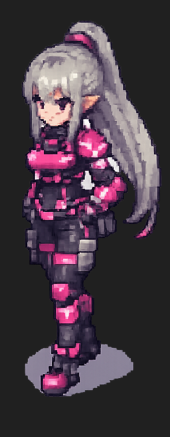
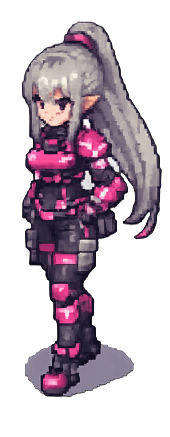
alterações png

diff --git a/main.js b/main.js
@@ -91,7 +91,7 @@ function createForestTexture() {
     for (let y = 0; y < size; y += bs) {
         for (let x = 0; x < size; x += bs) {
             if (Math.random() < 0.5) {
-                const colors = ['#163016', '#1e401e', '#224422', '#1a3a1a', '#1f4520'];
+                const colors = ['#0a1a0a', '#0d220d', '#112211', '#091509', '#0f200f'];
                 ctx.fillStyle = colors[Math.floor(Math.random() * colors.length)];
                 ctx.fillRect(x, y, bs, bs);
             }
@@ -116,14 +116,14 @@ function applyGroundTexture(tex) {
     tex.magFilter = tex.minFilter = THREE.NearestFilter;
     tex.repeat.set(20, 20);
     ground.material.map = tex;
-    ground.material.color.setHex(0xaaaaaa); // Escurece o mapa multiplicando por cinza escuro
+    ground.material.color.setHex(0x333333); // Escurece o mapa significativamente
     ground.material.needsUpdate = true;
 }
 
 const ground = new THREE.Mesh(
     new THREE.PlaneGeometry(MAP_LIMIT * 2 + 10, MAP_LIMIT * 2 + 10),
     // Cor cinza escura para baixar o brilho/contraste do mapa
-    new THREE.MeshBasicMaterial({ map: createForestTexture(), color: 0x777777 })
+    new THREE.MeshBasicMaterial({ map: createForestTexture(), color: 0x1a1a1a })
 );
 ground.position.z = -1;
 scene.add(ground);
@@ -219,8 +219,8 @@ function createTree(x, y) {
         plane.position.set(0, size * 0.4, 0.5);
         group.add(plane);
 
-        // Colisor esférico reduzido e mais centralizado no tronco da árvore
-        treeColliders.push({ x: x, y: y + size * 0.06, radius: size * 0.06 });
+        // Colisor esférico na base do tronco
+        treeColliders.push({ x: x, y: y, radius: size * 0.08 });
     } else {
         const s = 1.8 + Math.random() * 1;
         const topColors = [0x1a4a1a, 0x1e5a1e, 0x224422];
@@ -231,7 +231,7 @@ function createTree(x, y) {
         treeColliders.push({ x: x, y: y, radius: s });
     }
     // Determina o Z baseado no Y (Depth Sorting - árvores na frente sobrepõem as de trás)
-    group.position.set(x, y, -y * 0.001);
+    group.position.set(x, y, -y * 0.01);
     scene.add(group);
 }
 
@@ -264,9 +264,9 @@ textureLoader.load(
 const playerGroup = new THREE.Group();
 
 // Visual da Personagem
-const playerMat = new THREE.MeshBasicMaterial({ color: 0xffffff, transparent: true, alphaTest: 0.1 });
-const playerVisual = new THREE.Mesh(new THREE.PlaneGeometry(2.4, 3.2), playerMat);
-playerVisual.position.set(0, 0.8, 0.2);
+const playerMat = new THREE.MeshBasicMaterial({ color: 0xffffff, transparent: true, alphaTest: 0.5 });
+const playerVisual = new THREE.Mesh(new THREE.PlaneGeometry(3.5, 3.5), playerMat);
+playerVisual.position.set(0, 1.2, 0.1);
 playerGroup.add(playerVisual);
 
 const playerTextures = {
@@ -323,7 +323,7 @@ playerGroup.add(hpBarBg);
 
 const hpMat = new THREE.MeshBasicMaterial({ color: 0xff00ff });
 const hpBar = new THREE.Mesh(new THREE.PlaneGeometry(HP_BAR_WIDTH, 0.28), hpMat);
-hpBar.position.set(0, 3.0, 0.51);
+hpBar.position.set(0, 3.2, 0.51);
 playerGroup.add(hpBar);
 
 playerGroup.position.set(0, 0, 0);
@@ -711,8 +711,8 @@ function updateMovement() {
         if (distSq < minRadiusSq && distSq > 0) {
             const dist = Math.sqrt(distSq);
             const overlap = (playerRadius + tree.radius) - dist;
-            nextX += (dx / dist) * overlap;
-            nextY += (dy / dist) * overlap;
+            nextX += (dx / dist) * overlap * 1.5;
+            nextY += (dy / dist) * overlap * 1.5;
         }
     }
 
@@ -721,7 +721,7 @@ function updateMovement() {
     playerGroup.position.y = THREE.MathUtils.clamp(nextY, -MAP_LIMIT, MAP_LIMIT);
 
     // Depth Sorting pelo eixo Y da personagem
-    playerGroup.position.z = -playerGroup.position.y * 0.001;
+    playerGroup.position.z = -playerGroup.position.y * 0.01 + 0.005;
 
     camera.position.x += (playerGroup.position.x - camera.position.x) * 0.08;
     camera.position.y += (playerGroup.position.y - camera.position.y) * 0.08;
@@ -739,6 +739,8 @@ function updateMovement() {
 
         // Vira a sprite da personagem para o lado que está atirando/mirando
         playerVisual.scale.x = dx < 0 ? -1 : 1;
+        // Pequeno ajuste de offset X dependendo da direção para compensar o PNG descentralizado
+        playerVisual.position.x = dx < 0 ? 0.2 : -0.2;
     }
 }
 

diff --git a/style.css b/style.css
@@ -58,7 +58,7 @@ html {
 .eye-shape {
     width: 220px;
     height: 130px;
-    background-image: url('eyes_sprite.png.png');
+    background-image: url('eyes_sprite.png');
     background-size: 200% 200%;
     background-repeat: no-repeat;
     animation: eyePulse 3s infinite alternate;
